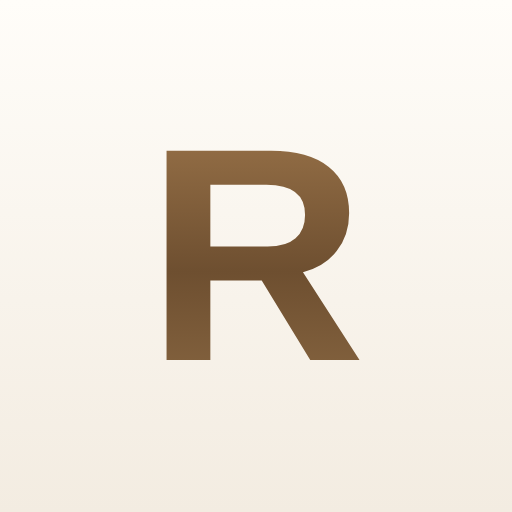
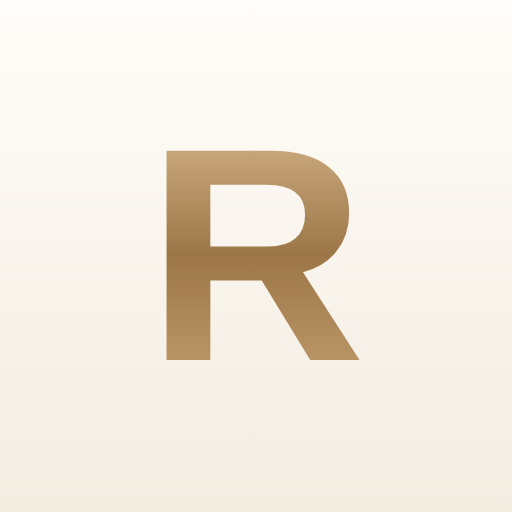
Ikona: złota litera R na jasnym tle
Claude-Session: https://claude.ai/code/session_015JBGQnBs9Q66i9WSPfBoSb

Changed region(s): [[0.3125, 0.2812, 0.7188, 0.7188]]

diff --git a/public/sw.js b/public/sw.js
@@ -1,7 +1,7 @@
 // Service worker aplikacji RKDP: powiadomienia push, instalacja jako aplikacja (PWA) i ekran „brak internetu”.
 // Danych z bazy NIE zapisujemy w pamięci urządzenia – w trybie offline pokazujemy tylko komunikat.
 const OFFLINE = '/offline.html';
-const CACHE = 'rkdp-shell-v2';
+const CACHE = 'rkdp-shell-v3';
 
 self.addEventListener('install', e => {
   e.waitUntil(caches.open(CACHE).then(c => c.addAll([OFFLINE, '/icon-192.png', '/logo-rkdp.png'])).then(() => self.skipWaiting()));

diff --git a/public/index.html b/public/index.html
@@ -10,7 +10,7 @@
   <meta name="apple-mobile-web-app-status-bar-style" content="black-translucent">
   <meta name="apple-mobile-web-app-title" content="RKDP">
   <meta name="format-detection" content="telephone=no">
-  <link rel="apple-touch-icon" href="/apple-touch-icon-v2.png">
+  <link rel="apple-touch-icon" href="/apple-touch-icon-v3.png">
   <link rel="manifest" href="/manifest.webmanifest">
   <title>RKDP · Rozliczenia klientów</title>
   <link rel="icon" href="/favicon.svg" type="image/svg+xml">
